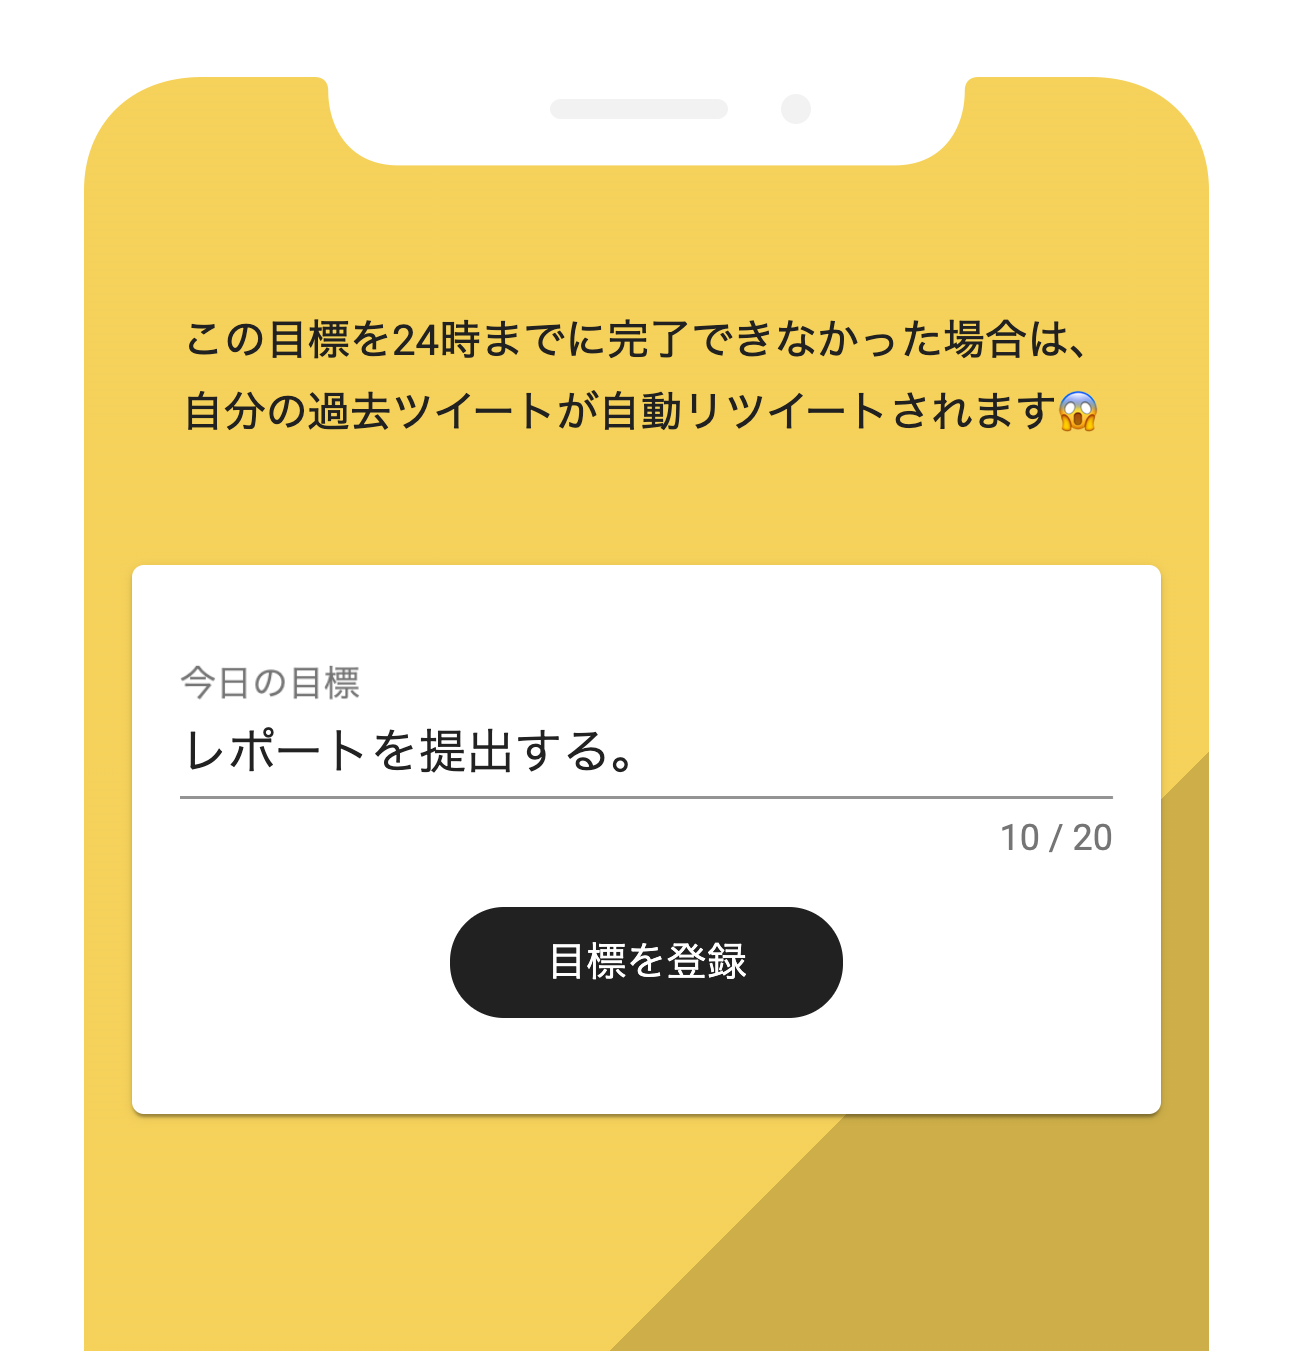
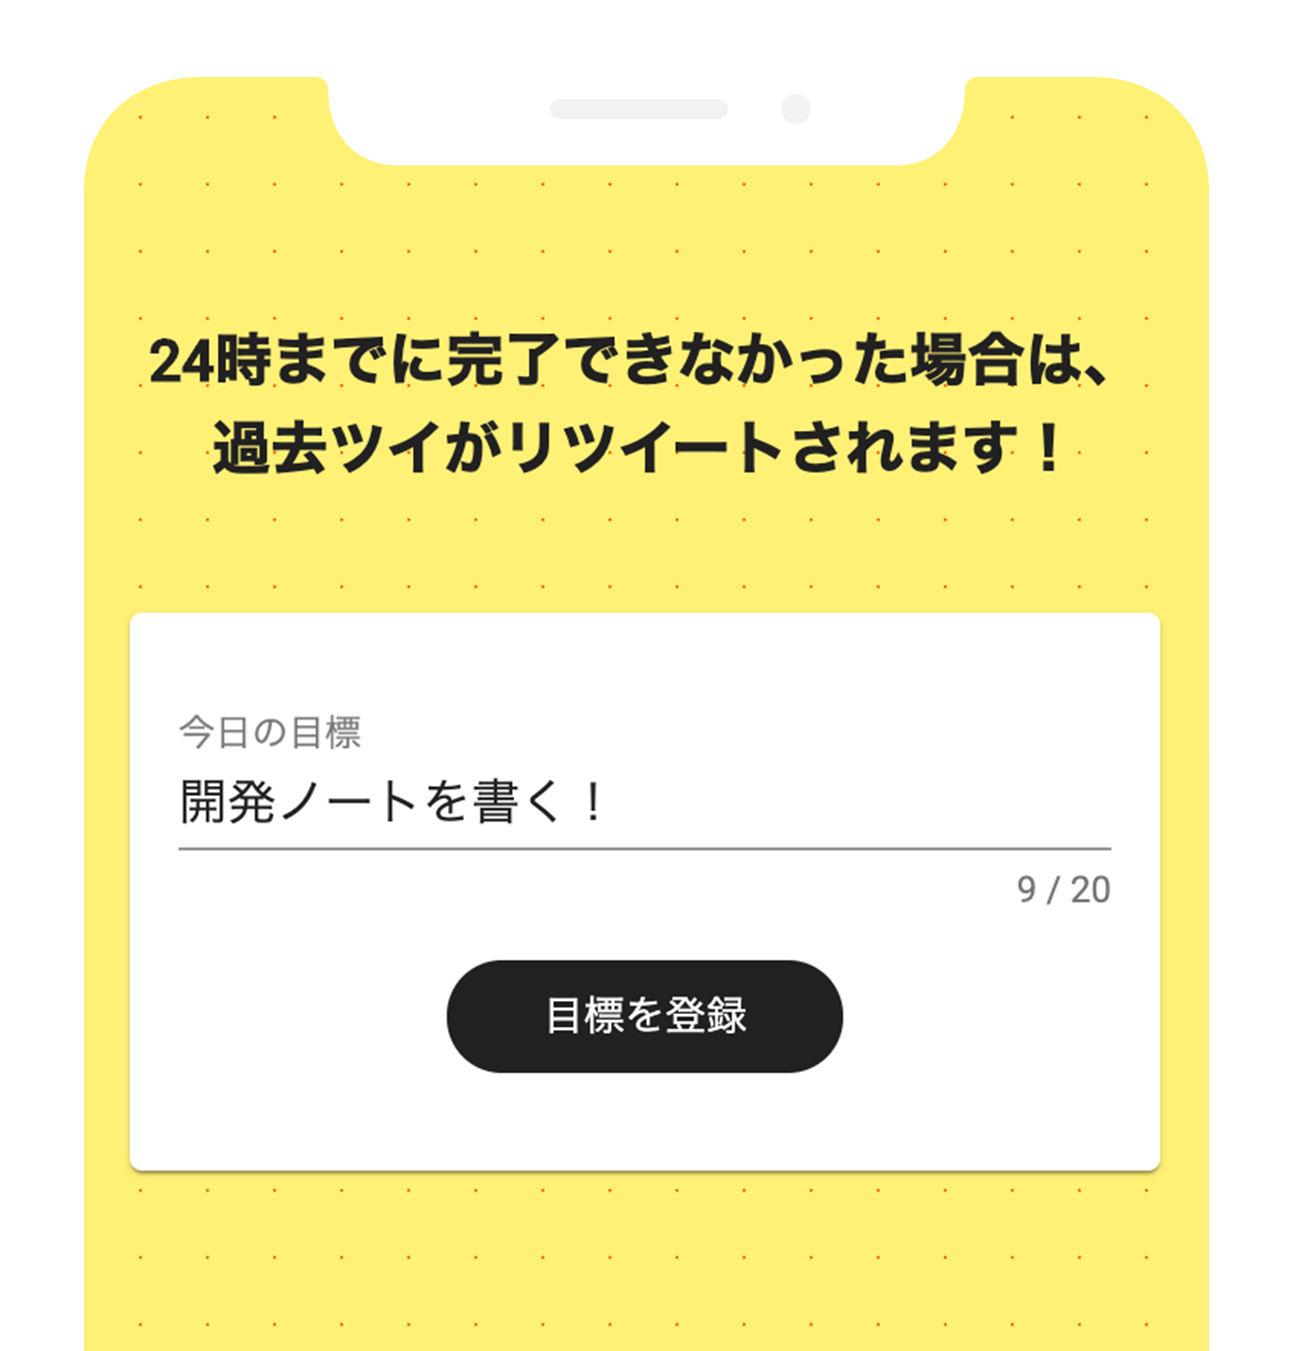
fix(welcome,mypage):mypageのスタイル調整とキャプチャの差替

diff --git a/src/app/mypage/mypage/mypage.component.html b/src/app/mypage/mypage/mypage.component.html
@@ -4,7 +4,7 @@
     <div class="container">
       <p class="mypage__description">
         この目標を{{ limitTime }}時までに完了できなかった場合は、<br />
-        自分の過去ツイが自動リツイートされます！
+        過去ツイがリツイートされます！
       </p>
       <ng-container *ngIf="authService.afUser$ | async as user">
         <ng-container *ngIf="userTask$ | async as userTask; else unCreate">
@@ -18,14 +18,14 @@
                 <p class="emoji">🥳</p>
                 <p>
                   おめでとうございます！<br />
-                  自動リツイートは回避されました！
+                  リツイートは回避されました！
                 </p>
               </div>
             </ng-container>
             <ng-template #unComplate>
               <div class="mypage__actions">
                 <button
-                  class="btn"
+                  class="btn btn-complete"
                   (click)="complateTask(user.uid, formatToday)"
                 ><span>完了報告する</span></button>
               </div>

diff --git a/src/app/mypage/mypage/mypage.component.scss b/src/app/mypage/mypage/mypage.component.scss
@@ -16,13 +16,6 @@
     line-height: 1;
   }
   &__contents {
-    background: linear-gradient(
-      135deg,
-      $color-main 0%,
-      $color-main 75%,
-      $color-main-dark 75%,
-      $color-main-dark 100%
-    );
     @include bg-dot;
     padding-top: 80px;
     padding-bottom: 80px;
@@ -33,7 +26,7 @@
     font-size: 14px;
     font-weight: 700;
     @include md {
-      font-size: 16px;
+      font-size: 18px;
     }
   }
   &__card {

diff --git a/src/styles.scss b/src/styles.scss
@@ -81,6 +81,12 @@ img {
       background-color: $color-twitter;
     }
   }
+  &.btn-complete {
+    background-color: $color-main-dark;
+    &::before {
+      background-color: $color-main;
+    }
+  }
 }
 
 .font-logo {
